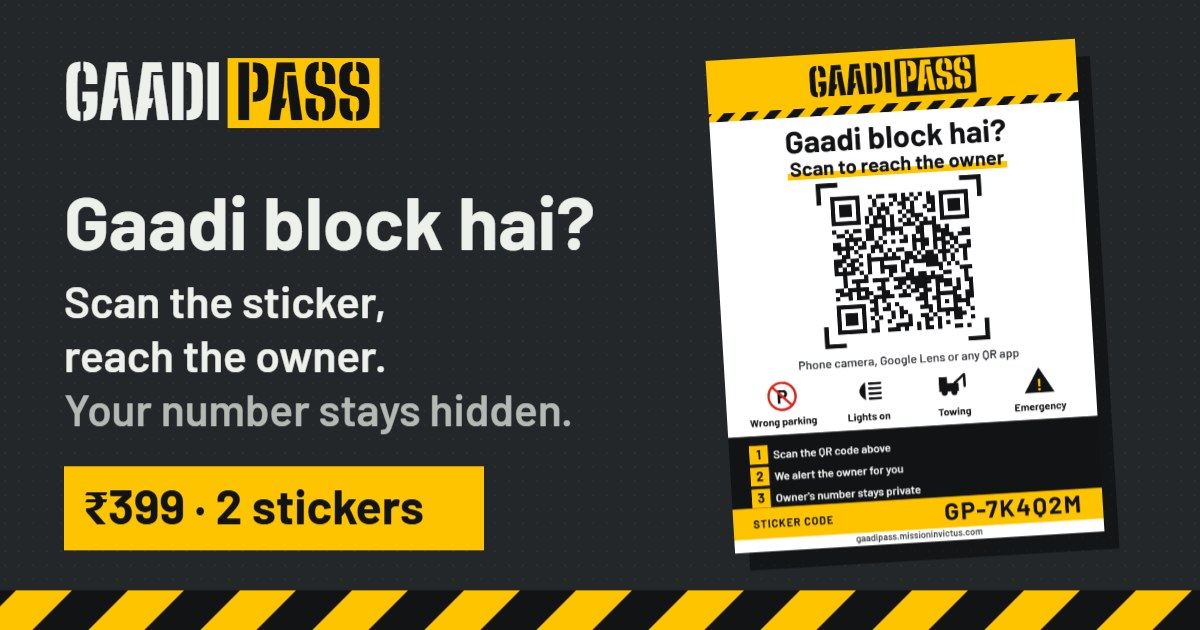
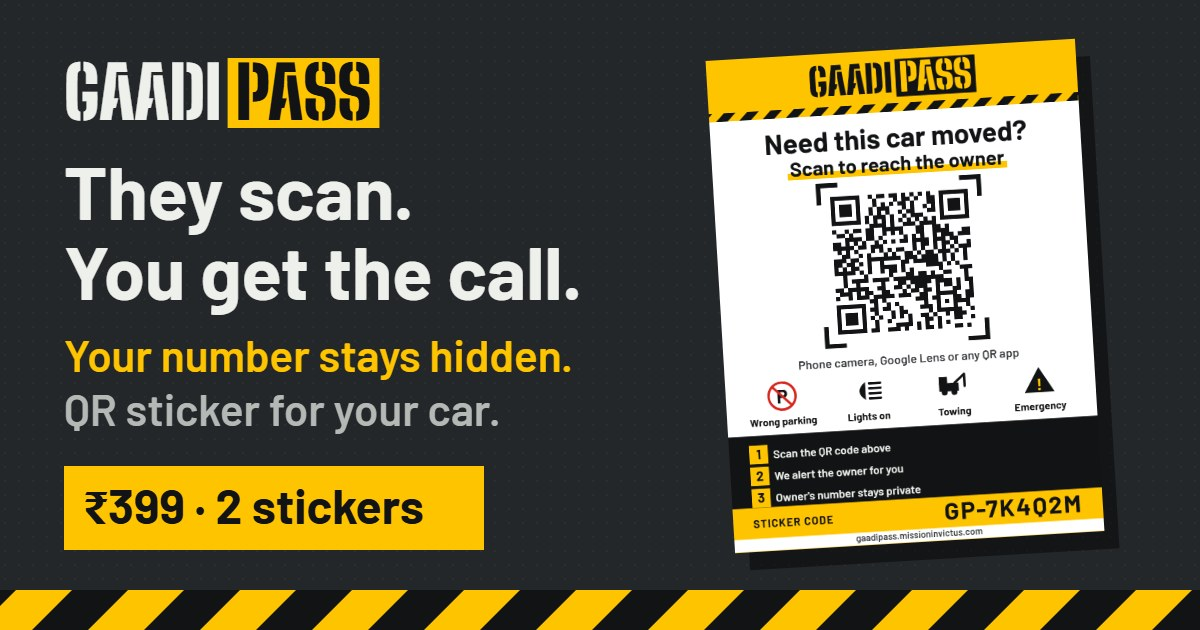
English only: hero, tagline, closing line, sticker headline, share image

diff --git a/index.html b/index.html
@@ -118,9 +118,9 @@ window.gpTrack=function(ev,p){try{fbq('track',ev,p||{})}catch(e){}};
 <section class="hero" aria-labelledby="hero-h">
   <div class="wrap hero-grid">
     <div class="pillar hero-pillar">
-      <h1 id="hero-h">Gaadi block hai aur owner ka pata nahi?</h1>
+      <h1 id="hero-h">Blocked in, and no idea whose car it is?</h1>
       <p class="hero-sub">A windshield sticker. Anyone who needs you scans it, and we reach you. <strong>Nobody sees your number.</strong></p>
-      <p class="tagline">Aapki gaadi ka digital passport</p>
+      <p class="tagline">Your car's private contact card</p>
       <span class="pillar-code" aria-hidden="true">B1</span>
     </div>
     <svg class="hero-scene" viewBox="0 0 360 300" role="img" aria-label="Illustration: a blue hatchback parked across the basement exit lane between two pillars. A GaadiPass sticker is on its windshield, shown enlarged with its QR code, printed number and GaadiPass mark. In front, a phone shows: Calling owner, number hidden.">
@@ -337,7 +337,7 @@ window.gpTrack=function(ev,p){try{fbq('track',ev,p||{})}catch(e){}};
   <div class="sticker-grid">
     <div class="sticker-pair">
       <figure class="sticker-fig">
-        <img src="/assets/sticker/front-sample.png" width="443" height="590" alt="GaadiPass sticker front: yellow GaadiPass band, the words Gaadi block hai?, a large QR code, three steps (scan the QR code, we alert the owner for you, owner's number stays private) and the sticker code GP-7K4Q2M." loading="lazy">
+        <img src="/assets/sticker/front-sample.png" width="443" height="590" alt="GaadiPass sticker front: yellow GaadiPass band, the words Need this car moved?, a large QR code, three steps (scan the QR code, we alert the owner for you, owner's number stays private) and the sticker code GP-7K4Q2M." loading="lazy">
         <figcaption><b>Front</b> · faces outside the windshield</figcaption>
       </figure>
       <figure class="sticker-fig">
@@ -389,7 +389,7 @@ window.gpTrack=function(ev,p){try{fbq('track',ev,p||{})}catch(e){}};
 </section>
 
 <section class="wrap close" aria-labelledby="close-h">
-  <h2 id="close-h">Koi bhi call kare. Number kisi ko na dikhe.</h2>
+  <h2 id="close-h">They reach you. Your number stays private.</h2>
   <p>Anyone can reach you. Nobody sees your number. <span class="rs">₹</span>399 for 2 stickers, no monthly fee.</p>
   <div class="cta-floor">
     <span class="floor-arrow" aria-hidden="true"></span>

diff --git a/src/index.html b/src/index.html
@@ -65,9 +65,9 @@
 <section class="hero" aria-labelledby="hero-h">
   <div class="wrap hero-grid">
     <div class="pillar hero-pillar">
-      <h1 id="hero-h">Gaadi block hai aur owner ka pata nahi?</h1>
+      <h1 id="hero-h">Blocked in, and no idea whose car it is?</h1>
       <p class="hero-sub">A windshield sticker. Anyone who needs you scans it, and we reach you. <strong>Nobody sees your number.</strong></p>
-      <p class="tagline">Aapki gaadi ka digital passport</p>
+      <p class="tagline">Your car's private contact card</p>
       <span class="pillar-code" aria-hidden="true">B1</span>
     </div>
     <svg class="hero-scene" viewBox="0 0 360 300" role="img" aria-label="Illustration: a blue hatchback parked across the basement exit lane between two pillars. A GaadiPass sticker is on its windshield, shown enlarged with its QR code, printed number and GaadiPass mark. In front, a phone shows: Calling owner, number hidden.">
@@ -284,7 +284,7 @@
   <div class="sticker-grid">
     <div class="sticker-pair">
       <figure class="sticker-fig">
-        <img src="/assets/sticker/front-sample.png" width="443" height="590" alt="GaadiPass sticker front: yellow GaadiPass band, the words Gaadi block hai?, a large QR code, three steps (scan the QR code, we alert the owner for you, owner's number stays private) and the sticker code GP-7K4Q2M." loading="lazy">
+        <img src="/assets/sticker/front-sample.png" width="443" height="590" alt="GaadiPass sticker front: yellow GaadiPass band, the words Need this car moved?, a large QR code, three steps (scan the QR code, we alert the owner for you, owner's number stays private) and the sticker code GP-7K4Q2M." loading="lazy">
         <figcaption><b>Front</b> · faces outside the windshield</figcaption>
       </figure>
       <figure class="sticker-fig">
@@ -336,7 +336,7 @@
 </section>
 
 <section class="wrap close" aria-labelledby="close-h">
-  <h2 id="close-h">Koi bhi call kare. Number kisi ko na dikhe.</h2>
+  <h2 id="close-h">They reach you. Your number stays private.</h2>
   <p>Anyone can reach you. Nobody sees your number. <span class="rs">₹</span>399 for 2 stickers, no monthly fee.</p>
   <div class="cta-floor">
     <span class="floor-arrow" aria-hidden="true"></span>

diff --git a/js/sticker.js b/js/sticker.js
@@ -162,8 +162,8 @@
     hazard(ctx, 0, 128, W, 20, 28)
 
     // headline
-    ctx.fillStyle = C.ink; ctx.font = '700 74px Barlow'; ctx.textAlign = 'center'
-    ctx.fillText('Gaadi block hai?', W / 2, 234)
+    ctx.fillStyle = C.ink; ctx.font = '700 66px Barlow'; ctx.textAlign = 'center'
+    ctx.fillText('Need this car moved?', W / 2, 234)
     ctx.font = '700 48px Barlow'
     const l2 = 'Scan to reach the owner'
     const l2w = ctx.measureText(l2).width
